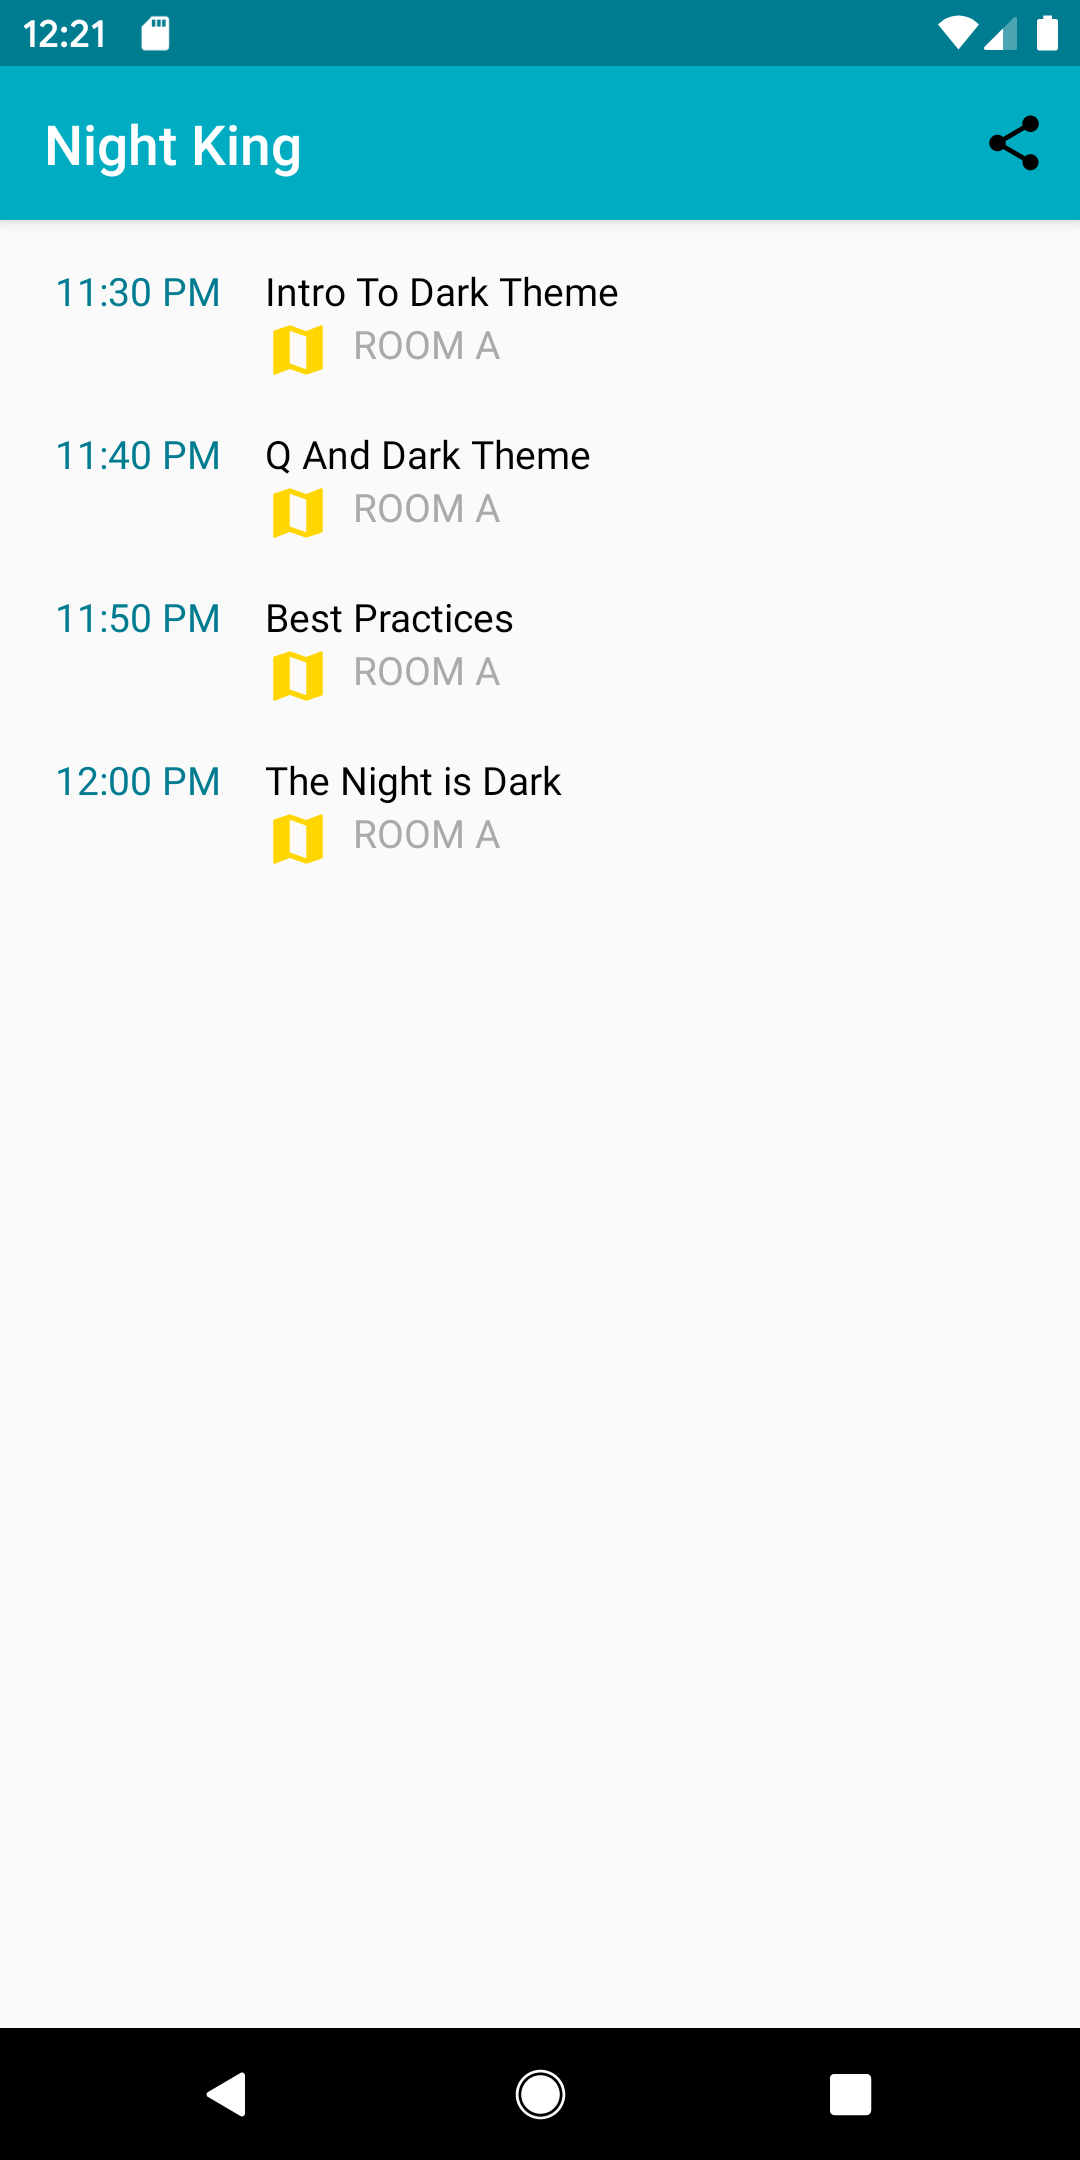
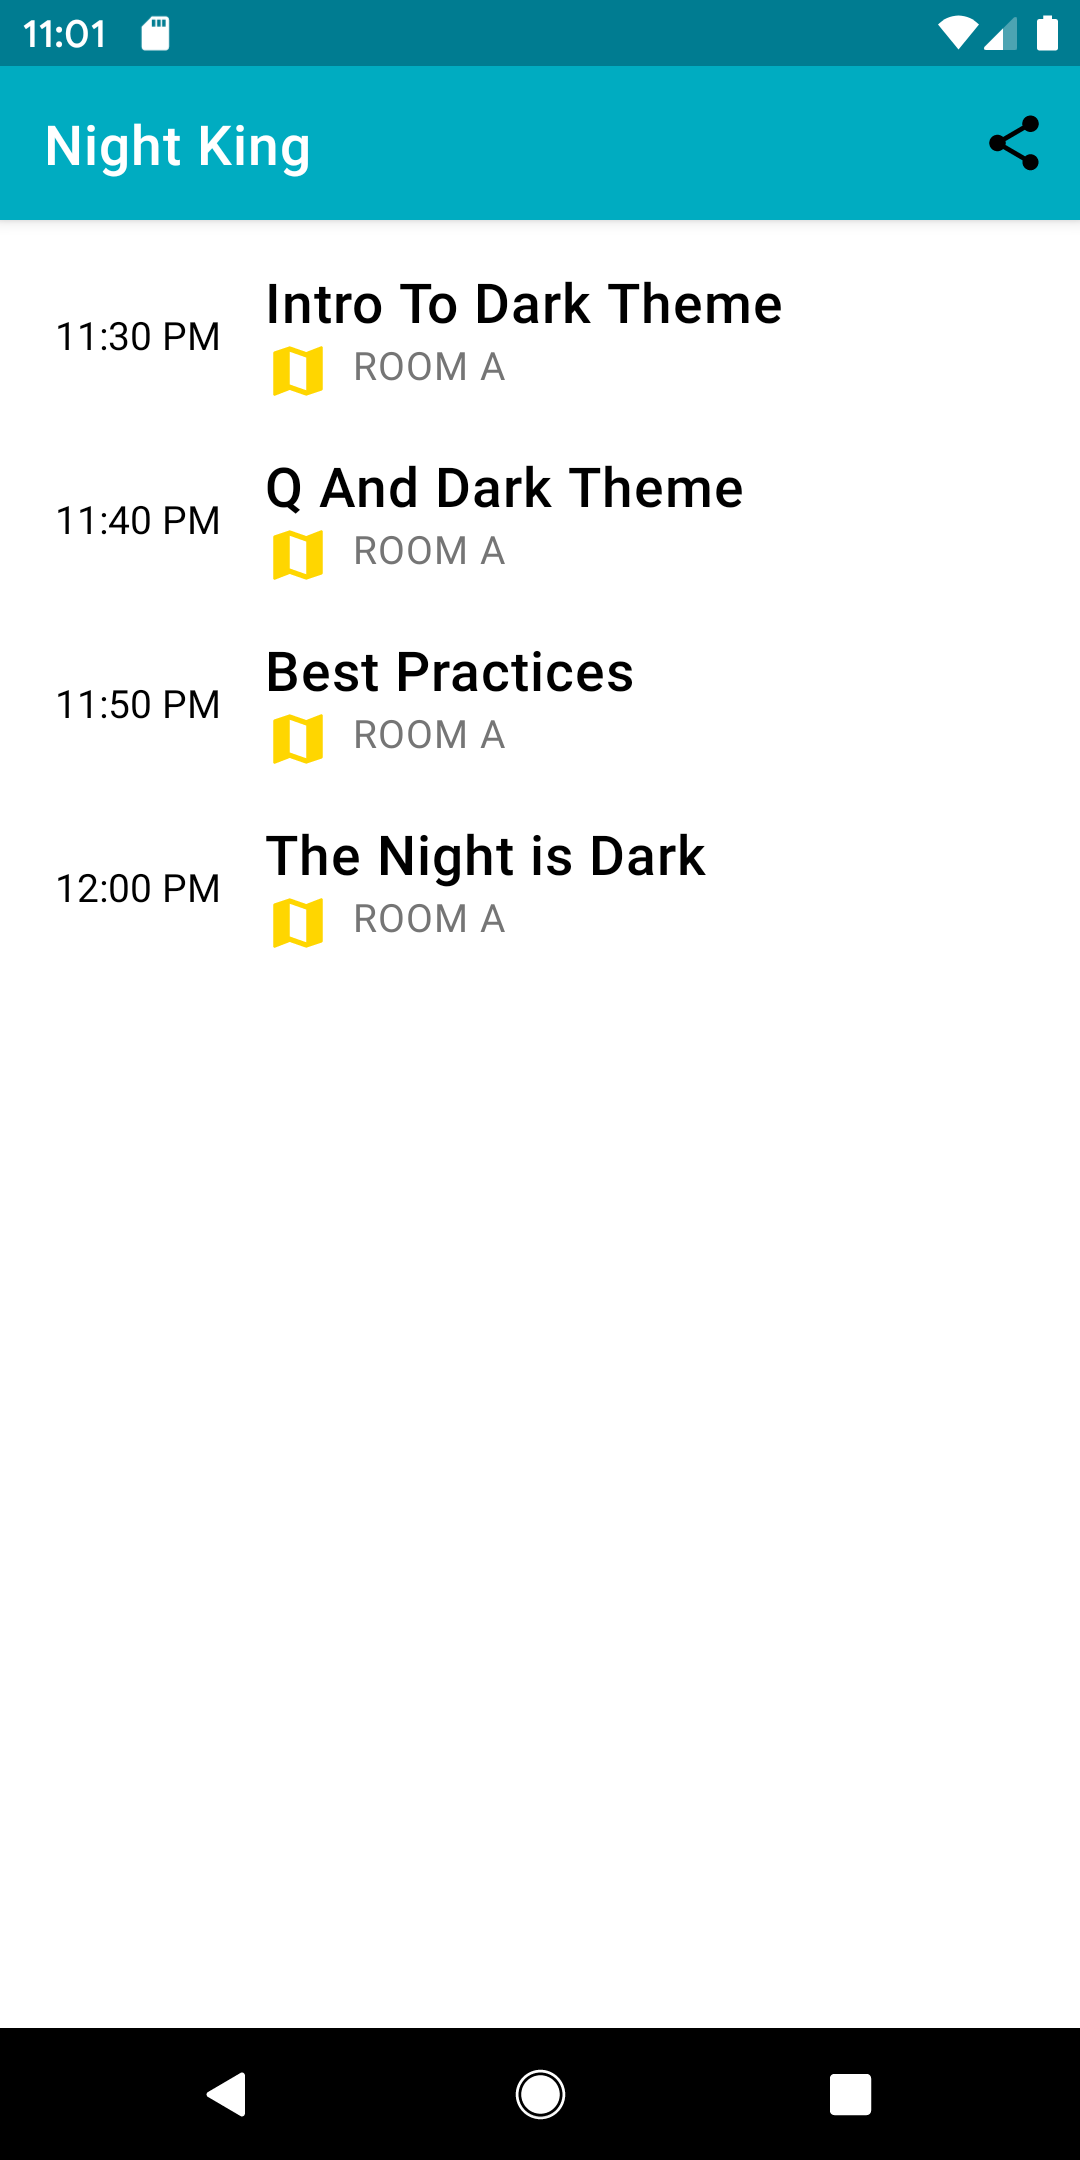
Add Screenshots

diff --git a/README.md b/README.md
@@ -1,6 +1,6 @@
 # Night King
 
-This Branch contains **force dark** implementation.Check out TODOs with
+This Branch contains **DayNight Theme** implementation.Check out TODOs with
 highlighted steps
 
 ## Screenshots
